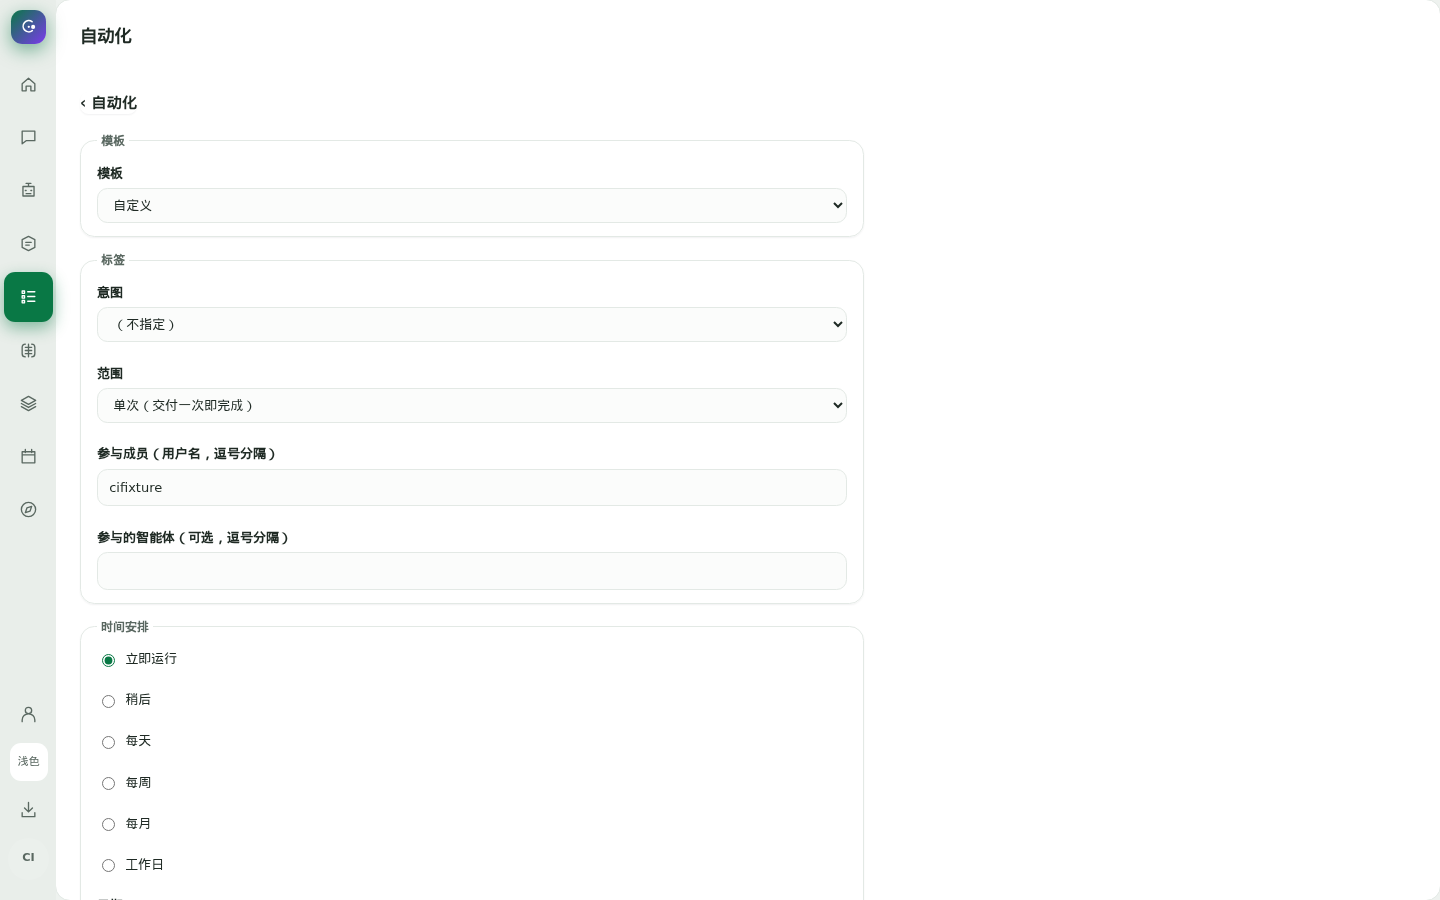
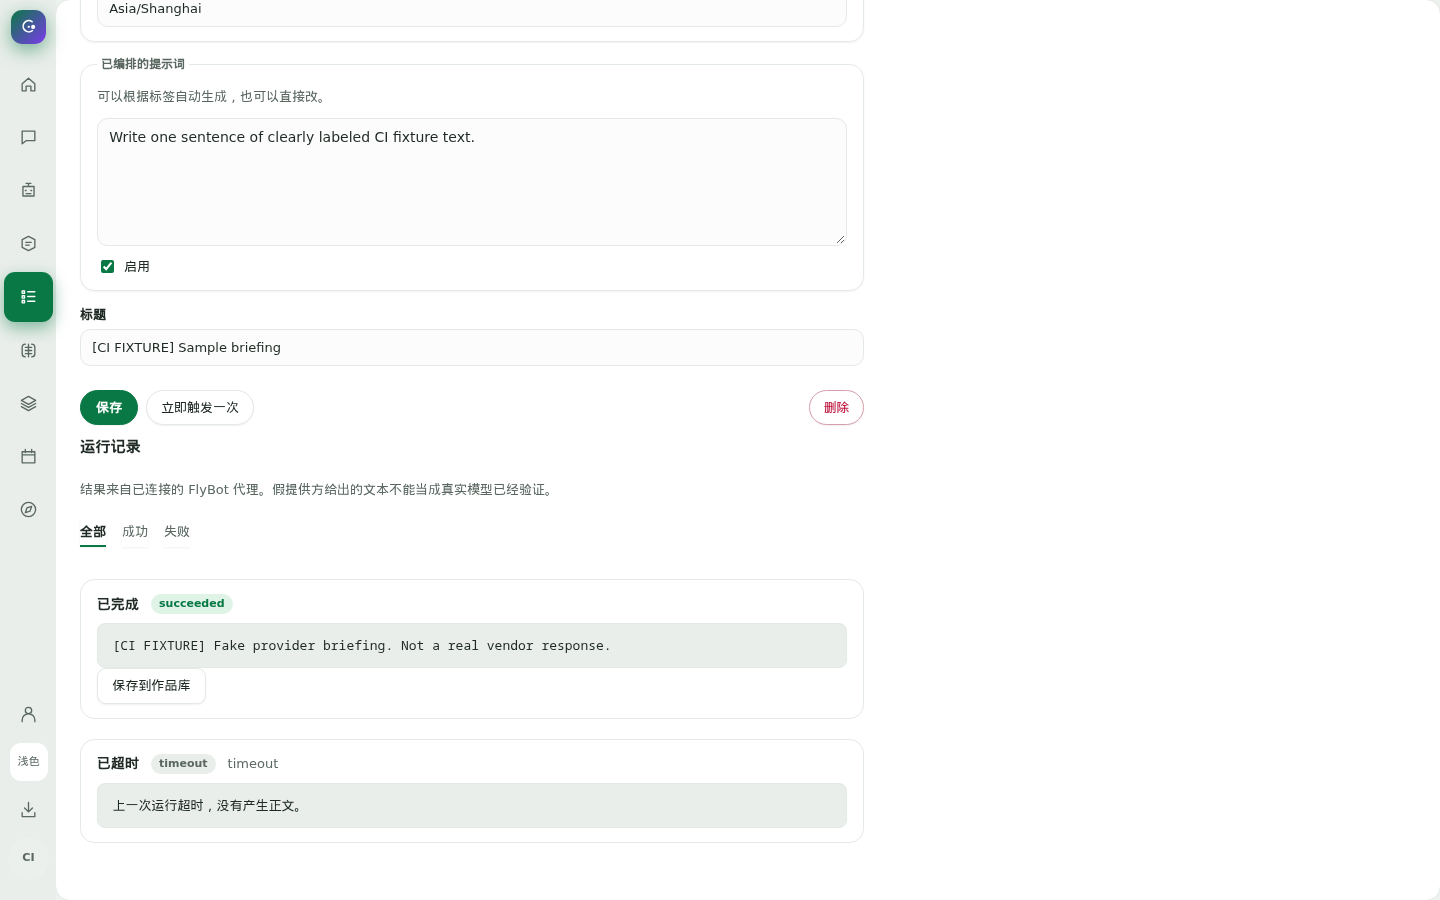
evidence(automation-run-retry): re-capture with the retry row scrolled into view
The first set shot fullPage at scroll top; the run panel lives in the page's
inner scroller, so both phases hashed identically. Each cell now scrolls the
row into view, records whether the control is painted (elementFromPoint) and
adds a row crop so the pair differs only by the control.

diff --git a/evidence/automation-run-retry/README.md b/evidence/automation-run-retry/README.md
@@ -1,4 +1,4 @@
-# Re-run one failed automation run (issue #327 / PR #330)
+# Re-run one failed automation run (issue #327 / PR #330) — re-capture
 
 Captured with the in-repo loopback fixture (`scripts/ci_ui_screenshots.py --serve`): a
 throwaway app on 127.0.0.1, the repo's fake OpenAI-compatible provider and the repo's
@@ -8,31 +8,59 @@ response. No real model was contacted.
 
 - `before` tree = `2ee0c0eb28b5bd7506fd73163d26a75918ffb230` (live main, PR base)
 - `after` tree = `423b19d4cd9466b8a8f90274276c4b20273c6c6e` (PR tip)
-- chromium 1255 via playwright; 1440×900 and 390×844; light theme; full-page shots.
+- chromium 1255 via playwright; 1440×900 and 390×844 viewports; light theme.
 
-## What each image shows
+## Why this set replaces the first one
 
-| File | What it is |
-|---|---|
-| `failed-run-before-1440x900.png` | base tree: the run list with a 「已超时 / timeout」 row and no action on it — the only way to try again was the next tick. |
-| `failed-run-before-390x844.png` | the same base list at 390×844. |
-| `failed-run-after-1440x900.png` | PR tip: the same failed row now carries 「重新运行」. |
-| `after-retry-after-1440x900.png` | one click later: a new 「运行中」 row is listed above it, and the failed row still says 「已超时」 with its original result text. |
-| `after-retry-reloaded-after-1440x900.png` | the automation reopened from the list: the new run is still there (stored, not page state) and the source run is unchanged. |
-| `failed-run-after-390x844.png` | 390×844, failed row with the retry control. |
-| `after-retry-after-390x844.png` | 390×844 after a retry: new run plus unchanged source row, no horizontal overflow. |
+The first capture took `fullPage: true` screenshots while the page sat at scroll top.
+The run panel is not part of the document's own flow: it lives inside the page's inner
+scroller, at `y≈1734` while `document.documentElement.scrollHeight` is `900`, so the
+first frame contained none of the run rows — `elementFromPoint` at the retry button's
+centre returned `null`. Before and after therefore rendered the same top-of-page
+pixels and hashed identically (`56966` bytes, `2feb65109c…` for both).
+
+Every image here is taken after the row under discussion is scrolled to the middle of
+the inner scroller with the document pinned to `scrollTop = 0`, and captures the
+**viewport** rather than the whole document. The capture also records, per cell, the
+retry button's box, whether it is inside the viewport, and whether
+`elementFromPoint` at its centre is the button itself — i.e. whether it is painted,
+not just present in the DOM.
+
+| File | sha256 (first 12) | What it is |
+|---|---|---|
+| `failed-run-before-1440x900.png` | `78c76e92abbd` | base tree, 1440×900: the run list with a 「已超时 / timeout」 row and no action on it. |
+| `failed-run-after-1440x900.png` | `d4e3f5313d77` | PR tip, 1440×900: the same failed row now carries 「重新运行」 at `x=290,y=738,w=83,h=36`, `inViewport=true`, `painted=true`. |
+| `failed-row-crop-before-1440.png` | `f364deb1504c` | the failed row alone (784 css px wide): `已超时 · timeout · 上一次运行超时，没有产生正文。` |
+| `failed-row-crop-after-1440.png` | `3e2086f03dec` | the same row alone: the extra 「重新运行」 control; the row grows from 104 to 119 css px because the control wraps. |
+| `failed-run-before-390x844.png` | `001fd1fb36e9` | base tree, 390×844. |
+| `failed-run-after-390x844.png` | `4a75acaad71f` | PR tip, 390×844: `x=97,y=682,w=83,h=36`, `inViewport=true`, `painted=true`, `overflow=0`. |
+| `failed-row-crop-before-390.png` | `57c942865ce5` | the failed row alone at narrow width. |
+| `failed-row-crop-after-390.png` | `ef2097c43a70` | the same narrow row with the control (row height 104 → 148 css px). |
+| `after-retry-after-1440x900.png` | `ef7e31a0a551` | one click later: a new 「运行中」 row above it, the failed row still 「已超时」 with its original result text. |
+| `after-retry-reloaded-after-1440x900.png` | `d6fe7a137548` | the automation reopened from the list: the new run is still there (stored, not page state). |
+| `after-retry-after-390x844.png` | `b3023b47593a` | 390×844 after a retry: new run plus unchanged source row, `overflow=0`. |
+
+`before` and `after` differ for both viewport sizes and for both row crops:
+
+```
+failed-run-before-1440x900  78c76e92abbd8a71…  failed-run-after-1440x900  d4e3f5313d77f46b…
+failed-run-before-390x844   001fd1fb36e9284e…  failed-run-after-390x844   4a75acaad71fb0b8…
+failed-row-crop-before-1440 f364deb1504c4885…  failed-row-crop-after-1440 3e2086f03decbae4…
+failed-row-crop-before-390 57c942865ce5c89a…  failed-row-crop-after-390  ef2097c43a70bb29…
+```
 
 ## DOM / request readings
 
 `before-retry-states.json` / `after-retry-states.json` hold, per cell: the rendered
-`#run-list` row text, horizontal overflow, page errors, the number of 「重新运行」
-buttons found, and every POST the page sent to a `/runs/<id>/retry` URL with its
-`Idempotency-Key`.
+`#run-list` row text, horizontal overflow, page errors, the retry button's box with
+`inViewport` / `painted`, the row crop's measured css size, and every POST the page
+sent to a `/runs/<id>/retry` URL with its `Idempotency-Key`.
 
 Verbatim:
 
 - before: `retry button count: 0`; rows `["已完成succeeded…保存到作品库", "已超时timeouttimeout上一次运行超时，没有产生正文。"]`
-- after: `retry button count: 1`; after one click rows are
+- after: `retry button count: 1`; `retry: [{"text":"重新运行","box":{"x":290,"y":738,"w":83,"h":36},"inViewport":true,"painted":true}]`
+- after one click rows are
   `["…已完成…", "运行中queued取消这次运行", "已超时timeouttimeout重新运行上一次运行超时，没有产生正文。"]`
   — the new run is separate and the source row keeps `已超时` and its result text.
 - after: `retryPosts` shows one POST per deliberate click, each with its own
